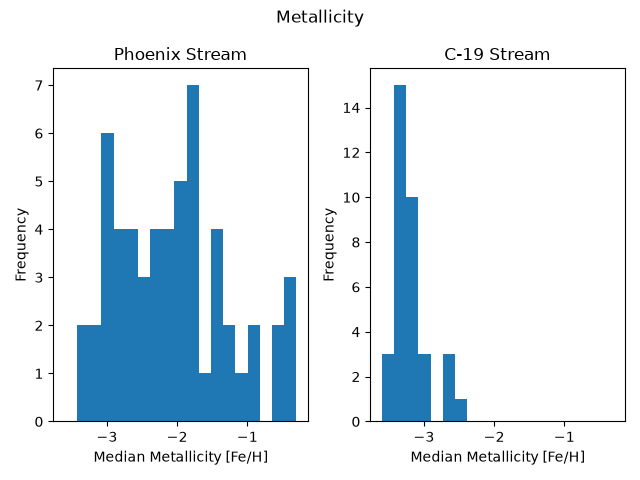
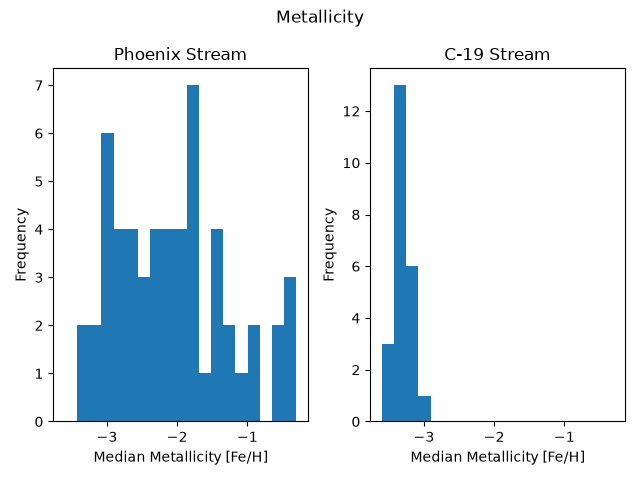
Added graphs for stream wwidth and stream rv disp

diff --git a/Coordinates and Dispursions.py b/Coordinates and Dispursions.py
@@ -1,0 +1,141 @@
+import pandas as pd
+import numpy as np
+import matplotlib.pyplot as plt
+import astropy.units as u
+from astropy.coordinates import SkyCoord
+from scipy.optimize import minimize 
+
+# Read in data
+C_19 = pd.read_csv('Cleaned Data/the_one_c19_to_rule_them_all.csv')
+Phoenix = pd.read_csv('Cleaned Data/s5_phoenix_stars.csv')
+
+## Figure Options:
+show_mollweide = False
+show_width     = False 
+show_rv        = True  
+
+
+## Making the stream coordinates
+# C-19: no published matrix, so fit a great circle to the stars
+def stream_frame(ra, dec):
+    c = SkyCoord(ra=ra*u.deg, dec=dec*u.deg, frame='icrs')  # makes the skycoords, u.deg signifies the units used
+    v = c.cartesian.xyz.value.T     # turns positions into 3D unit vectors --> 'cartesian' converts to cartesian, 'xyz' builds each column into the matrix, 'value' removes the units for a plain numpy array, 'T' transposes the matrix
+
+    _, _, vt = np.linalg.svd(v, full_matrices=False)    # finds the normal to the plane (the section with the least variation)
+    pole = vt[2]                                 # defines the normal as the pole
+
+    m = v.mean(axis=0)  # average star direction
+    x = m - (m @ pole) * pole   # removes the part of 'm' that sticks out of the plane
+    x /= np.linalg.norm(x)  # projection of mean star direction onto great circle plane
+    y = np.cross(pole, x)   # takes the cross product of x to get another axis, alongside 'x' and 'pole'
+
+    phi1 = np.degrees(np.arctan2(v @ y, v @ x)) # converts our x and y axis's into the new axis
+    phi2 = np.degrees(np.arcsin(np.clip(v @ pole, -1, 1)))  # converts the pole axis into the new axis
+    R = np.vstack([x, y, pole]) # creates matrix with the new axes
+    return phi1, phi2, R
+
+# Phoenix: rotation matrix from Shipp et al. (2019), Table D.1 - https://arxiv.org/pdf/1907.09488
+R_phoenix = np.array([
+    [ 0.59644670,  0.27151332, -0.75533559],
+    [-0.48595429, -0.62682316, -0.60904938],
+    [ 0.63882686, -0.73032406,  0.24192354],
+])
+
+def apply_rotation(ra, dec, R):
+    c = SkyCoord(ra=ra*u.deg, dec=dec*u.deg, frame='icrs')  #makes the skycoords
+    v = c.cartesian.xyz.value   # turns the positions into the 3D unit vectors
+    x, y, z = R @ v # rotating the stars into the stream frame
+    phi1 = np.degrees(np.arctan2(y, x)) # makes the new coords
+    phi2 = np.degrees(np.arcsin(np.clip(z, -1, 1))) # makes the new coords
+    return phi1, phi2
+
+# defining the axes for each
+C_19['phi1'], C_19['phi2'], R_c19 = stream_frame(C_19['ra'].values, C_19['dec'].values)
+Phoenix['phi1'], Phoenix['phi2'] = apply_rotation(Phoenix['ra'].values, Phoenix['dec'].values, R_phoenix)
+
+
+## Making the Mollwiede plot
+def moll_xy(phi1_deg, phi2_deg):
+    phi1 = (np.asarray(phi1_deg) + 180) % 360 - 180 # need longitude in radians from -Pi to Pi
+    return np.radians(phi1), np.radians(np.asarray(phi2_deg))
+
+if show_mollweide:
+    fig = plt.figure(figsize=(12, 5))
+    for i, (df, name, col) in enumerate([(C_19, 'C-19', 'C0'),  # loops over the two streams, giving the dataframe, name, and colour ('enumerate' adds an index counter to each item in returning pairs, used to determine which stream they belong to)
+                                        (Phoenix, 'Phoenix', 'C1')], start=1):
+        ax = fig.add_subplot(1, 2, i, projection='mollweide')   # creates subplots 'i' in 2 columns using mollweide projection
+        x, y = moll_xy(df['phi1'], df['phi2'])  # converts the streams angles for viewing
+        ax.scatter(x, y, s=6, color=col)    # scatters the stars
+        ax.grid(True)
+        ax.set_title(f'{name} (stream coordinates)')
+        ax.set_xlabel(r'$\phi_1$')
+        ax.set_ylabel(r'$\phi_2$')
+    plt.tight_layout()
+    plt.show()
+
+## Spline fitting
+# Stream Width
+C_19 = C_19[C_19['source_id'] != 2288313499629002624] # seemingly positional outlier, even though 'confirmed' member
+
+c19_coeffs = np.polyfit(C_19['phi1'], C_19['phi2'], deg=3)
+c19_fit = np.poly1d(c19_coeffs)
+C_19['phi2_resid'] = C_19['phi2'] - c19_fit(C_19['phi1'])
+
+phoenix_coeffs = np.polyfit(Phoenix['phi1'], Phoenix['phi2'], deg=3)
+phoenix_fit = np.poly1d(phoenix_coeffs)
+Phoenix['phi2_resid'] = Phoenix['phi2'] - phoenix_fit(Phoenix['phi1'])
+
+if show_width:
+    fig, axes = plt.subplots(2, 3, figsize=(15, 8))
+    for row, (df, fit, name) in zip(axes, [(C_19, c19_fit, 'C-19'),
+                                            (Phoenix, phoenix_fit, 'Phoenix')]):
+        xs = np.linspace(df['phi1'].min(), df['phi1'].max(), 500)
+        row[0].scatter(df['phi1'], df['phi2'], s=6)
+        row[0].plot(xs, fit(xs), 'r')
+        row[0].set_title(f'{name}: fit')
+        row[0].set_xlabel(r'$\phi_1$ (deg)'); row[0].set_ylabel(r'$\phi_2$ (deg)')
+
+        row[1].scatter(df['phi1'], df['phi2_resid'], s=6)
+        row[1].axhline(0, color='r')
+        row[1].set_title(f'{name}: residual vs $\\phi_1$')
+        row[1].set_xlabel(r'$\phi_1$ (deg)'); row[1].set_ylabel('residual (deg)')
+
+        row[2].hist(df['phi2_resid'], bins=30)
+        row[2].set_title(f'{name}: residual distribution')
+        row[2].set_xlabel('residual (deg)')
+    plt.tight_layout(); plt.show()
+
+
+# Radial velocity dispursion
+Phoenix = Phoenix[Phoenix['name'] != '4914223274240174208'] # extreme rv outlier (-1200)
+
+C_19 = C_19.dropna(subset=["rv"])
+
+c19_rv_coeffs = np.polyfit(C_19['phi1'], C_19['rv'], deg=3)
+c19_rv_fit = np.poly1d(c19_rv_coeffs)
+C_19['rv_resid'] = C_19['rv'] - c19_rv_fit(C_19['phi1'])
+
+phoenix_rv_coeffs = np.polyfit(Phoenix['phi1'], Phoenix['vel_calib'], deg=3)
+phoenix_rv_fit = np.poly1d(phoenix_rv_coeffs)
+Phoenix['rv_resid'] = Phoenix['vel_calib'] - phoenix_rv_fit(Phoenix['phi1'])
+
+if show_rv:  
+    fig, axes = plt.subplots(2, 3, figsize=(15, 8))
+    for row, (df, fit, name, col) in zip(axes, [(C_19, c19_rv_fit, 'C-19', 'rv'),
+                                                 (Phoenix, phoenix_rv_fit, 'Phoenix', 'vel_calib')]):
+        xs = np.linspace(df['phi1'].min(), df['phi1'].max(), 500)
+
+        row[0].scatter(df['phi1'], df[col], s=6)
+        row[0].plot(xs, fit(xs), 'r')
+        row[0].set_title(f'{name}: RV fit')
+        row[0].set_xlabel(r'$\phi_1$ (deg)'); row[0].set_ylabel('RV (km/s)')
+
+        row[1].scatter(df['phi1'], df['rv_resid'], s=6)
+        row[1].axhline(0, color='r')
+        row[1].set_title(f'{name}: RV residual vs $\\phi_1$')
+        row[1].set_xlabel(r'$\phi_1$ (deg)'); row[1].set_ylabel('residual (km/s)')
+
+        row[2].hist(df['rv_resid'], bins=30)
+        row[2].set_title(f'{name}: RV residual distribution')
+        row[2].set_xlabel('residual (km/s)')
+    plt.tight_layout(); plt.show()

diff --git a/Metal and RV Histograms.py b/Metal and RV Histograms.py
@@ -7,42 +7,50 @@ import matplotlib.pyplot as plt
 import pandas as pd
 import numpy as np
 
-# Plotting S5 and Pristine Metallicity Histograms
+# Read-in Data
 s5 = pd.read_csv('Cleaned Data/s5_phoenix_stars.csv')
-pris = pd.read_csv('Cleaned Data/pristine_c19_stars.csv')
-s5_metal = s5["feh50"]
-pris_metal = pris["feh"]
+c19 = pd.read_csv('Cleaned Data/the_one_c19_to_rule_them_all.csv')
 
-#bins = np.linspace(-3.6, -0.3, 20)
+## Figure Options:
+Metallicity = True
+Radial_Velocity = False
 
-#fig_met, ax_met = plt.subplots(1, 2)
-#ax_met[0].hist(s5_metal, bins=bins)
-#ax_met[0].set_title('Phoenix Stream')
+# Plotting S5 and Pristine Metallicity Histograms
+if Metallicity:
+    s5_metal = s5["feh50"]
+    c19_metal = c19["feh"]
 
-#ax_met[1].hist(pris_metal, bins=bins)
-#ax_met[1].set_title('C-19 Stream')
+    bins = np.linspace(-3.6, -0.3, 20)
 
-#fig_met.suptitle('Metallicity')
-#for a in ax_met:
-#    a.set_xlabel('Median Metallicity [Fe/H]')
-#    a.set_ylabel('Frequency')
+    fig_met, ax_met = plt.subplots(1, 2)
+    ax_met[0].hist(s5_metal, bins=bins)
+    ax_met[0].set_title('Phoenix Stream')
 
-#plt.tight_layout()
-#plt.show()
+    ax_met[1].hist(c19_metal, bins=bins)
+    ax_met[1].set_title('C-19 Stream')
+
+    fig_met.suptitle('Metallicity')
+    for a in ax_met:
+        a.set_xlabel('Median Metallicity [Fe/H]')
+        a.set_ylabel('Frequency')
+
+    plt.tight_layout()
+    plt.show()
 
 
 # Plotting S5 and Pristine Radial Velocity Histograms
-s5_vel = s5["vel50"]
-pris_vel = pris["rv"]
+if Radial_Velocity:
+    s5_vel = s5["vel50"]
+    c19_vel = c19["rv"]
 
-fig_vel, ax_vel = plt.subplots(1, 2)
-ax_vel[0].hist(s5_vel); ax_vel[0].set_title('Phoenix Stream')
-ax_vel[1].hist(pris_vel); ax_vel[1].set_title('C-19 Stream')
+    fig_vel, ax_vel = plt.subplots(1, 2)
+    ax_vel[0].hist(s5_vel); ax_vel[0].set_title('Phoenix Stream')
+    ax_vel[1].hist(c19_vel); ax_vel[1].set_title('C-19 Stream')
 
-fig_vel.suptitle('Radial Velocity')
-for a in ax_vel:
-    a.set_xlabel('Median Radial Velocity')
-    a.set_ylabel('Frequency')
+    fig_vel.suptitle('Radial Velocity')
+    for a in ax_vel:
+        a.set_xlabel('Median Radial Velocity')
+        a.set_ylabel('Frequency')
 
-plt.tight_layout()
-plt.show()
+    plt.tight_layout()
+    plt.show()

diff --git a/Cleaning Code/Cleaning Pristine Data.py b/Cleaning Code/Cleaning Pristine Data.py
@@ -20,4 +20,5 @@ cleaned_df.to_csv("Cleaned Data/pristine_c19_stars.csv") # saving data to file
 ## Cleaning data to keep only confirmed members
 mask = cleaned_df['Membership'] == 'Y'
 member_df = cleaned_df[mask]
+
 member_df.to_csv('Cleaned Data/pristine_c19_confirmed.csv')

diff --git a/Cleaning Code/Combining C19 Data.py b/Cleaning Code/Combining C19 Data.py
@@ -1,6 +1,7 @@
 ## Combining the data from the Pristine Surveys XXVII and XVII 
 
 import pandas as pd
+import numpy as np
 
 # reading the data in
 pristine = pd.read_csv("Cleaned Data/pristine_c19_confirmed.csv")

diff --git a/README.md b/README.md
@@ -3,26 +3,10 @@ Determining the origins of the Phoenix and C-19 Stellar Streams
 - finding metallicity and radial velocity values
     - globular clusters tend to have lower velocity dispursions (according to tutor, find source)
 - finding metallicity dispursion and velocity dispursion
-- 
+- finding stream width
 
-# Key Papers:
-The primordial nature of the C-19 stellar stream
-https://ui.adsabs.harvard.edu/abs/2026arXiv260302445V/abstract
-
-The Phoenix stellar stream rose from the ashes of an ancient star cluster
-https://ui.adsabs.harvard.edu/abs/2020Natur.583..687K/abstract
-
-Detailed Chemical Abundance Analysis of the Brightest Stars in the Turranburra and Willka Yaku Stellar Streams
-https://ui.adsabs.harvard.edu/abs/2026ApJ...998..114W/abstract
+## To-Do:
+- Learn Changing Coordinates Code
+- Fit bell curve to histogram plots of metallicity and radial velocity to find dispursions (in class?)
 
 
-# Data Sources:
-Wide data sources:
-- Gaia
-- Desi Survey
-- GALAH
-- APOGEE
-
-Focused Data Surveys:
-- Individual papers
-- can be found through VizieR
